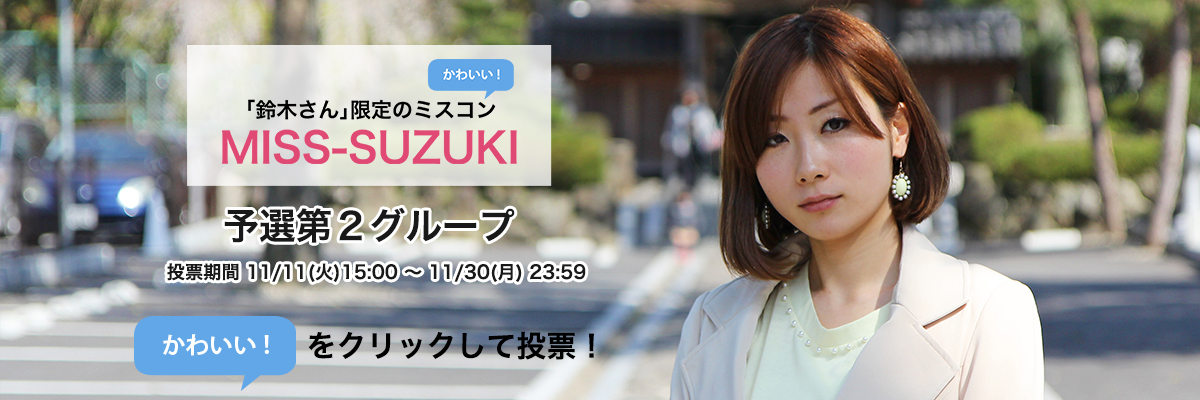
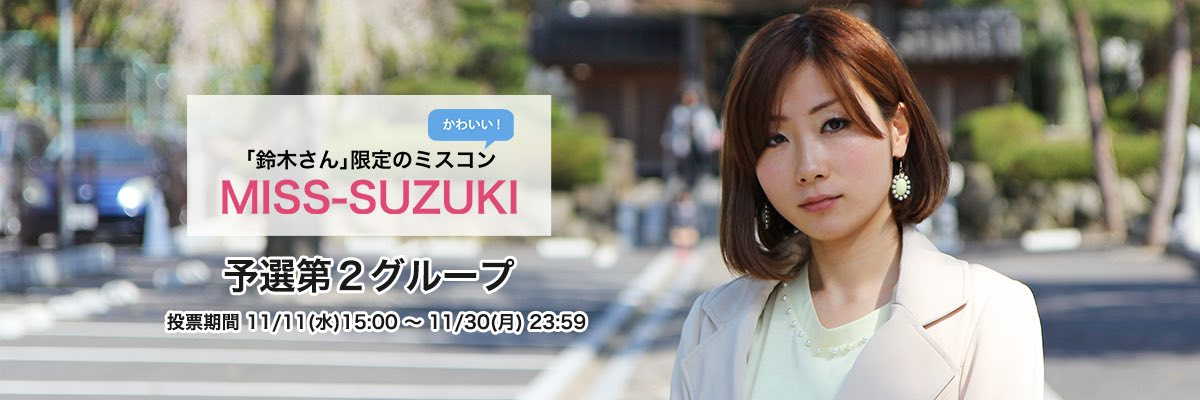
第２グループのメインイメージを若干差し替え

Changed region(s): [[0.1233, 0.45, 0.4933, 0.75], [0.1542, 0.09, 0.4625, 0.42], [0.0925, 0.78, 0.4933, 0.96]]

diff --git a/app/assets/stylesheets/style.css b/app/assets/stylesheets/style.css
@@ -2533,6 +2533,9 @@ body {
   color: #e04974;
   font-weight: bold;
 }
+#rules #next img{
+  width:900px;
+}
 /*====================ENTRY==========================*/
 #entry .sample{
   position: relative;
